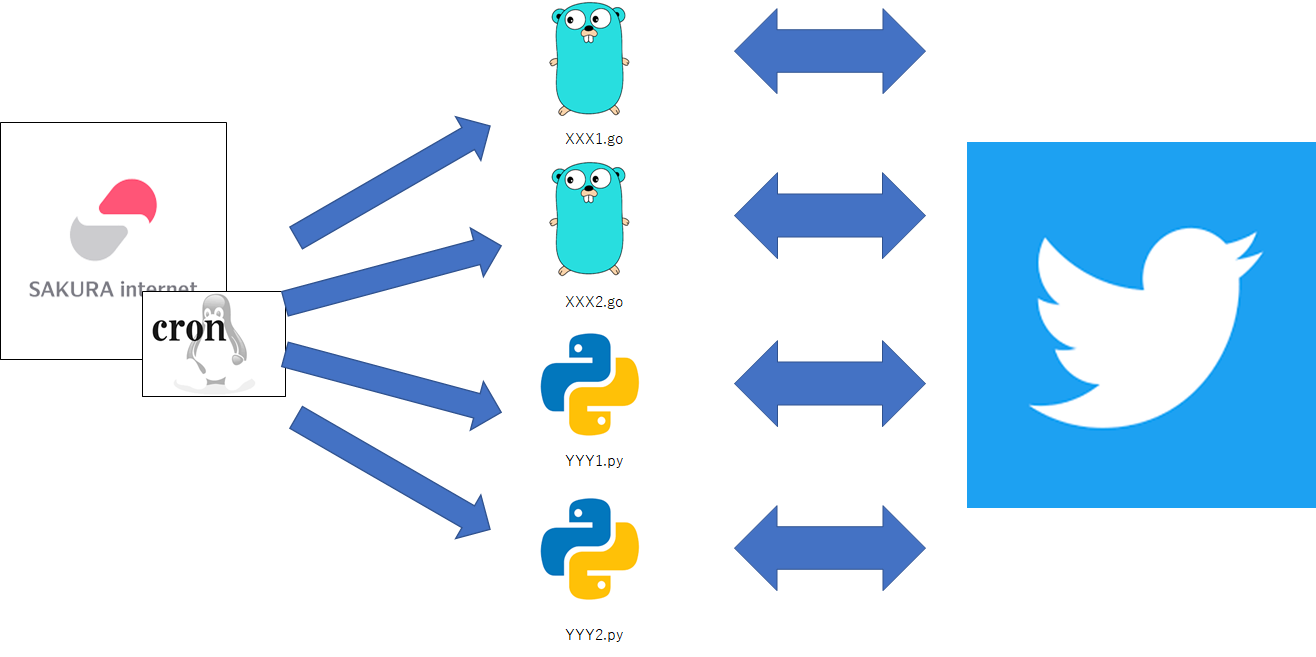
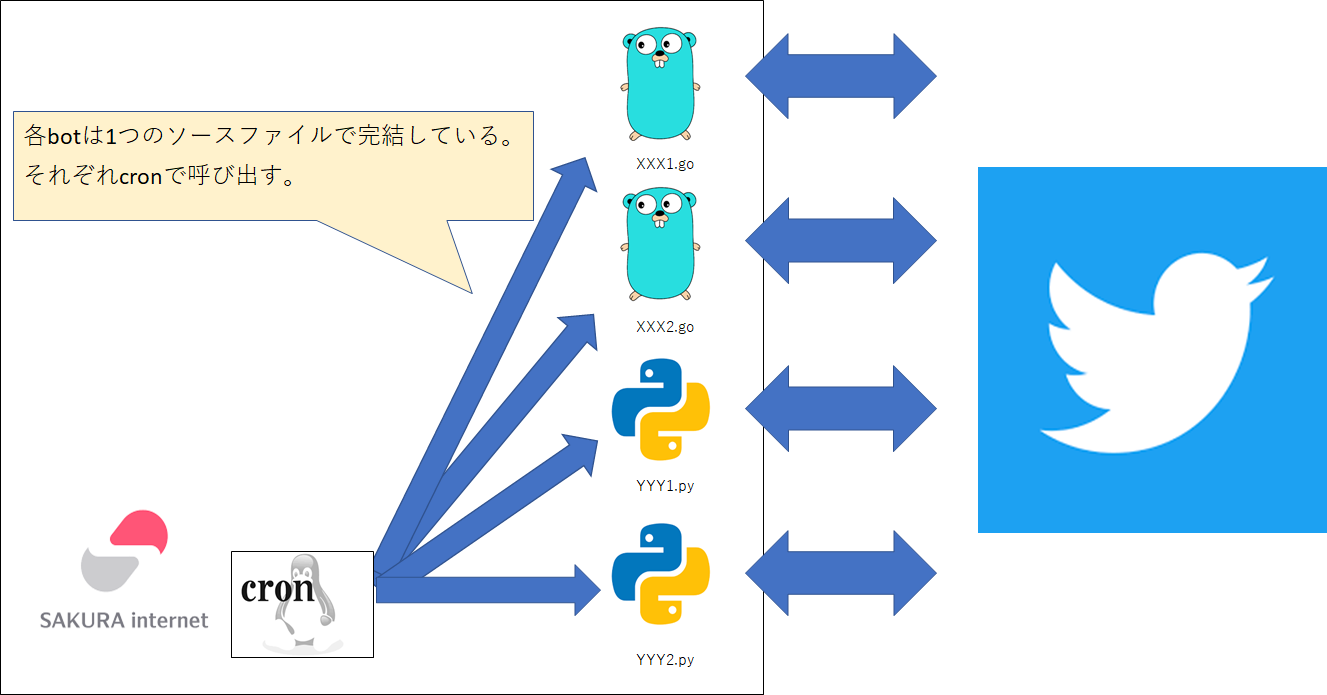
2週間でやりたいことの4日目

diff --git a/contents/bymyself/toscheduler/toscheduler.html b/contents/bymyself/toscheduler/toscheduler.html
@@ -133,13 +133,15 @@
       <br><br>
       <div id="mechanism"></div>
       <h3 class="title">どんな仕組み？</h3>
+      <h4 class="title">対応前</h4>
       <p>
-        対応前<br>
         <img src="img/bfr_scheduler.png" width="800"><br><br>
         1つ1つのプログラムは別ファイルになっており、それを cron でキックしていた。<br>
+      </p>
 
-        <br><br>
-        対応後<br>
+      <br><br>
+      <h4 class="title">対応後</h4>
+      <p>
         親となるプログラムを作り、そこで稼働時間の設定を行い、時間になったら動くような仕掛けを作った。<br>
         <img src="img/aft_scheduler.png" width="800"><br>
 
@@ -163,91 +165,126 @@
         <li><a href="https://kakakakakku.hatenablog.com/entry/2017/08/13/122359" target="_blank">Golang でジョブのスケジューリング実行ができる JobRunner を試した</a></li>
       </ul>
 
-    <br><br>
+      <br><br>
       <div id="whatilearn"></div>
       <h3 class="title">ぶつかった壁とか学んだこととか</h3>
       <p>
         Go は割とすんなり行けた。<br>
-        Go の場合<br>
-        scheduler.go<br>
-        　　┗XXX1.go<br>
-        　　┗XXX2.go<br>
-        　⇒scheduler.go で XXX1.go, XXX2.go を import してしまえばいい感じに呼び出してくれる。何か間違えていたらコンパイルエラーで教えてくれる。<br>
+      </p>
+      <div class="codetitle">Go の場合</div>
+      <div class="code">
+        .<br>
+        ├── scheduler.go<br>
+        └── XXX<br>
+        　　　　└──XXX1.go<br>
+      </div>
+      <p>
+        　⇒scheduler.go で XXX1.go を import してしまえばいい感じに呼び出してくれる。何か間違えていたらコンパイルエラーで教えてくれる。<br>
+      </p>
 
-        <br>
+      <p>
         python はちょっと苦戦。<br>
         今までは1つのファイルに全ての処理を書いていたが、 scheduler.py から違うディレクトリにある python プログラムを呼び出す必要があり、その場合の書き方がわからない。<br>
+      </p>
 
-        <br>
-        python の場合<br>
-        scheduler.py<br>
-        　　┗YYY1.py<br>
-        　　┗YYY2.py<br>
-        　⇒scheduler.py で YYY1.py, YYY2.py を import するだけだとうまくいかない。<br>
-
-        <br>
-        python で別ディレクトリのモジュールを呼び出す場合、以下3つのやり方がある。<br>
-        <ul>
-          <li>絶対インポート／相対インポート</li>
-          <li>sys.path.append で対象ファイルのパスを追加</li>
-          <li>環境変数 PYTHONPATH を設定</li>
-          <li>.pthファイルを作成</li>
-        </ul>
-
-        <br>
-        <h4 class="title">絶対インポート／相対インポート</h4>
-        呼び出したいモジュールの相対パスを指定して import する方法。<br>
-        例1：以下のような階層構造で main.py から lib_a.py を import する場合。<br>
-        絶対インポート<br>
+      <br>
+      <div class="codetitle">python の場合</div>
+      <div class="code">
         .<br>
-        ├── lib<br>
-        │   ├── liba<br>
-        │   │   └── lib_a.py<br>
-        │   └── libb<br>
-        │       └── lib_b.py<br>
-        └── main.py<br>
-        from lib.liba.lib_a import aaa<br>
-        aaa.funcA()<br>
-
-        相対インポート<br>
-        lib_a から、一つ上の階層にある libb を指定したい<br>
-        ..libb.lib_b import bbb<br>
-        bbb.funcB()<br>
+        ├── scheduler.py<br>
+        └── YYY<br>
+        　　　　└──YYY1.py<br>
+      </div>
+      <p>
+        　⇒scheduler.py で YYY1.py を import するだけだとうまくいかない。<br>
 
         <br>
-        <h4 class="title">sys.path.append で対象ファイルのパスを追加</h4>
+        python で別ディレクトリのモジュールを呼び出す場合、以下4つのやり方がある。<br>
+      </p>
+      <ul>
+        <li>絶対インポート／相対インポート</li>
+        <li>sys.path.append で対象ファイルのパスを追加</li>
+        <li>環境変数 PYTHONPATH を設定</li>
+        <li>.pthファイルを作成</li>
+      </ul>
+
+      <br>
+      <h4 class="title">絶対インポート／相対インポート</h4>
+      <p>
+        呼び出したいモジュールの相対パスを指定して import する方法。<br>
+        例：以下のような階層構造の場合。<br>
+
+        <div class="codetitle">階層構造</div>
+        <div class="code">
+          .<br>
+          ├── main.py<br>
+          └── lib<br>
+          　　　├── liba<br>
+          　　　│　　　└── lib_a.py<br>
+          　　　└── libb<br>
+          　　　　　　　└── lib_b.py<br>
+        </div>
+      </p>
+
+      <br>
+      <h5 class="title">絶対インポート</h5>
+      <p style="padding-left: 2.5em;">
+        main.py から lib_a.py を import したい。<br>
+        <div class="codetitle">main.py</div>
+        <div class="code">
+          from lib.liba.lib_a import aaa<br>
+          aaa.funcA()<br>
+        </div>
+      </p>
+
+      <h5 class="title">相対インポート</h5>
+      <p style="padding-left: 2.5em;">
+        lib_a から、一つ上の階層にある libb を指定したい<br>
+        <div class="codetitle">lib_a.py</div>
+        <div class="code">
+          ..libb.lib_b import bbb<br>
+          bbb.funcB()<br>
+        </div>
+      </p>
+
+      <br>
+      <h4 class="title">sys.path.append で対象ファイルのパスを追加</h4>
+      <p>
         python が import したモジュールを検索するパスは、標準ライブラリのsysモジュールのsys.pathに格納されている。<br>
         sys.path は sys.path.append([対象パスの文字列]) で追加できるので、 import 前にこれを実行すれば別ディレクトリでも import 可能。<br>
         sys.path.append('lib.liba.lib_a')<br>
         from lib_a import aaa<br>
         sys.path.append('..libb.lib_b')<br>
         from lib_b import bbb<br>
+      </p>
 
-        <br>
-        <h4 class="title">環境変数 PYTHONPATH を設定</h4>
+      <br>
+      <h4 class="title">環境変数 PYTHONPATH を設定</h4>
+      <p>
         環境変数 PYTHONPATH に読み込んでほしいモジュールのパスを追加すると読み込んでくれるようになる。<br>
+      </p>
 
-        <br>
-        <h4 class="title">.pthファイルを作成</h4>
+      <br>
+      <h4 class="title">.pthファイルを作成</h4>
+      <p>
         site-packages .pthファイルを作成してそこに対象モジュールのパスを書くと読み込んでくれる。<br>
-
-        <br><br>
-        参考
-        <ul>
-          <li><a href="https://docs.python.org/ja/3/using/cmdline.html?highlight=pythonpath#envvar-PYTHONPATH" target="_blank">1. コマンドラインと環境 1.2. 環境変数</a></li>
-          <li><a href="https://ja.stackoverflow.com/questions/12174/pythonpath%E3%81%A8%E3%81%AF" target="_blank">PYTHONPATHとは</a></li>
-          <li><a href="https://note.com/data_crazy/n/n9a53770ccd04" target="_blank">Pythonプログラムを外部から呼び出す方法</a></li>
-          <li><a href="https://note.nkmk.me/python-import-module-search-path/" target="_blank">Pythonでimportの対象ディレクトリのパスを確認・追加（sys.pathなど）Pythonでimportの対象ディレクトリのパスを確認・追加（sys.pathなど）</a></li>
-          <li><a href="https://teratail.com/questions/65319" target="_blank">Pythonで他のディレクトリからプログラムをimportするやり方</a></li>
-          <li><a href="https://ja.stackoverflow.com/questions/39007/python%E3%81%A7import%E4%BB%95%E7%B5%84%E3%81%BF%E3%81%8C%E3%82%88%E3%81%8F%E3%82%8F%E3%81%8B%E3%82%89%E3%81%AA%E3%81%84%E3%81%A7%E3%81%99-%E3%82%A8%E3%83%A9%E3%83%BC%E3%82%82%E5%87%BA%E3%81%BE%E3%81%99importerror-no-module-named-config" target="_blank">Pythonでimport仕組みがよくわからないです。エラーも出ますImportError: No module named 'config'</a></li>
-          <li><a href="https://lightgauge.net/language/python/add-module-path" target="_blank">Pythonで独自モジュールのディレクトリパスを通す方法</a></li>
-          <li><a href="https://qiita.com/papi_tokei/items/bc34d798dc7a6d49df30" target="_blank">Pythonインポート周り徹底理解への道Pythonインポート周り徹底理解への道</a></li>
-        </ul>
-
       </p>
 
       <br><br>
-    </section><!-- section class="box" -->
+      参考
+      <ul>
+        <li><a href="https://docs.python.org/ja/3/using/cmdline.html?highlight=pythonpath#envvar-PYTHONPATH" target="_blank">1. コマンドラインと環境 1.2. 環境変数</a></li>
+        <li><a href="https://ja.stackoverflow.com/questions/12174/pythonpath%E3%81%A8%E3%81%AF" target="_blank">PYTHONPATHとは</a></li>
+        <li><a href="https://note.com/data_crazy/n/n9a53770ccd04" target="_blank">Pythonプログラムを外部から呼び出す方法</a></li>
+        <li><a href="https://note.nkmk.me/python-import-module-search-path/" target="_blank">Pythonでimportの対象ディレクトリのパスを確認・追加（sys.pathなど）Pythonでimportの対象ディレクトリのパスを確認・追加（sys.pathなど）</a></li>
+        <li><a href="https://teratail.com/questions/65319" target="_blank">Pythonで他のディレクトリからプログラムをimportするやり方</a></li>
+        <li><a href="https://ja.stackoverflow.com/questions/39007/python%E3%81%A7import%E4%BB%95%E7%B5%84%E3%81%BF%E3%81%8C%E3%82%88%E3%81%8F%E3%82%8F%E3%81%8B%E3%82%89%E3%81%AA%E3%81%84%E3%81%A7%E3%81%99-%E3%82%A8%E3%83%A9%E3%83%BC%E3%82%82%E5%87%BA%E3%81%BE%E3%81%99importerror-no-module-named-config" target="_blank">Pythonでimport仕組みがよくわからないです。エラーも出ますImportError: No module named 'config'</a></li>
+        <li><a href="https://lightgauge.net/language/python/add-module-path" target="_blank">Pythonで独自モジュールのディレクトリパスを通す方法</a></li>
+        <li><a href="https://qiita.com/papi_tokei/items/bc34d798dc7a6d49df30" target="_blank">Pythonインポート周り徹底理解への道Pythonインポート周り徹底理解への道</a></li>
+      </ul>
+
+      <br><br>
+      </section><!-- section class="box" -->
 
     <footer>
       <small><a href="https://taumax-github.github.io/">とあるＩＴエンジニアの知識整理</a> All Rights Reserved.</small>

diff --git a/css/style.css b/css/style.css
@@ -121,6 +121,7 @@ a:hover {
 	width: 100%;
 	height: auto;
 }
+
 /*defaultbodyの背景画像指定*/
 .defaultbody #container {
 	background: url(../images/1.jpg) no-repeat center center;	/*背景画像（※IE8以下の古いブラウザ用）*/
@@ -376,6 +377,20 @@ header .icon_middle img {
 	margin-top: -5px;
 }
 
+.code {
+	background-color: #eee;
+	box-shadow: 0 3px 4px rgba(0, 0, 0, 0.32);
+	padding: 2em;
+	color: #000;			/*文字色*/
+}
+
+.codetitle {
+	border-top: 0px solid #aaa;
+	background-color: #aaa;
+	padding: 0em;
+	color: #000;			/*文字色*/
+}
+
 #main h2 + p,
 #main h3 + p {
 	margin-top: -10px;
@@ -389,6 +404,15 @@ header .icon_middle img {
 #main h4 {
 	clear: both;
 	margin-bottom: 15px;	/*見出しの下に空けるスペース*/
+	font-size: 20px;		/*文字サイズ*/
+	color: #c1bc9e;			/*文字色*/
+}
+
+/*h4タグ*/
+#main h5 {
+	padding: 1em;
+	clear: both;
+	margin-bottom: 5px;	/*見出しの下に空けるスペース*/
 	font-size: 20px;		/*文字サイズ*/
 	color: #c1bc9e;			/*文字色*/
 }
